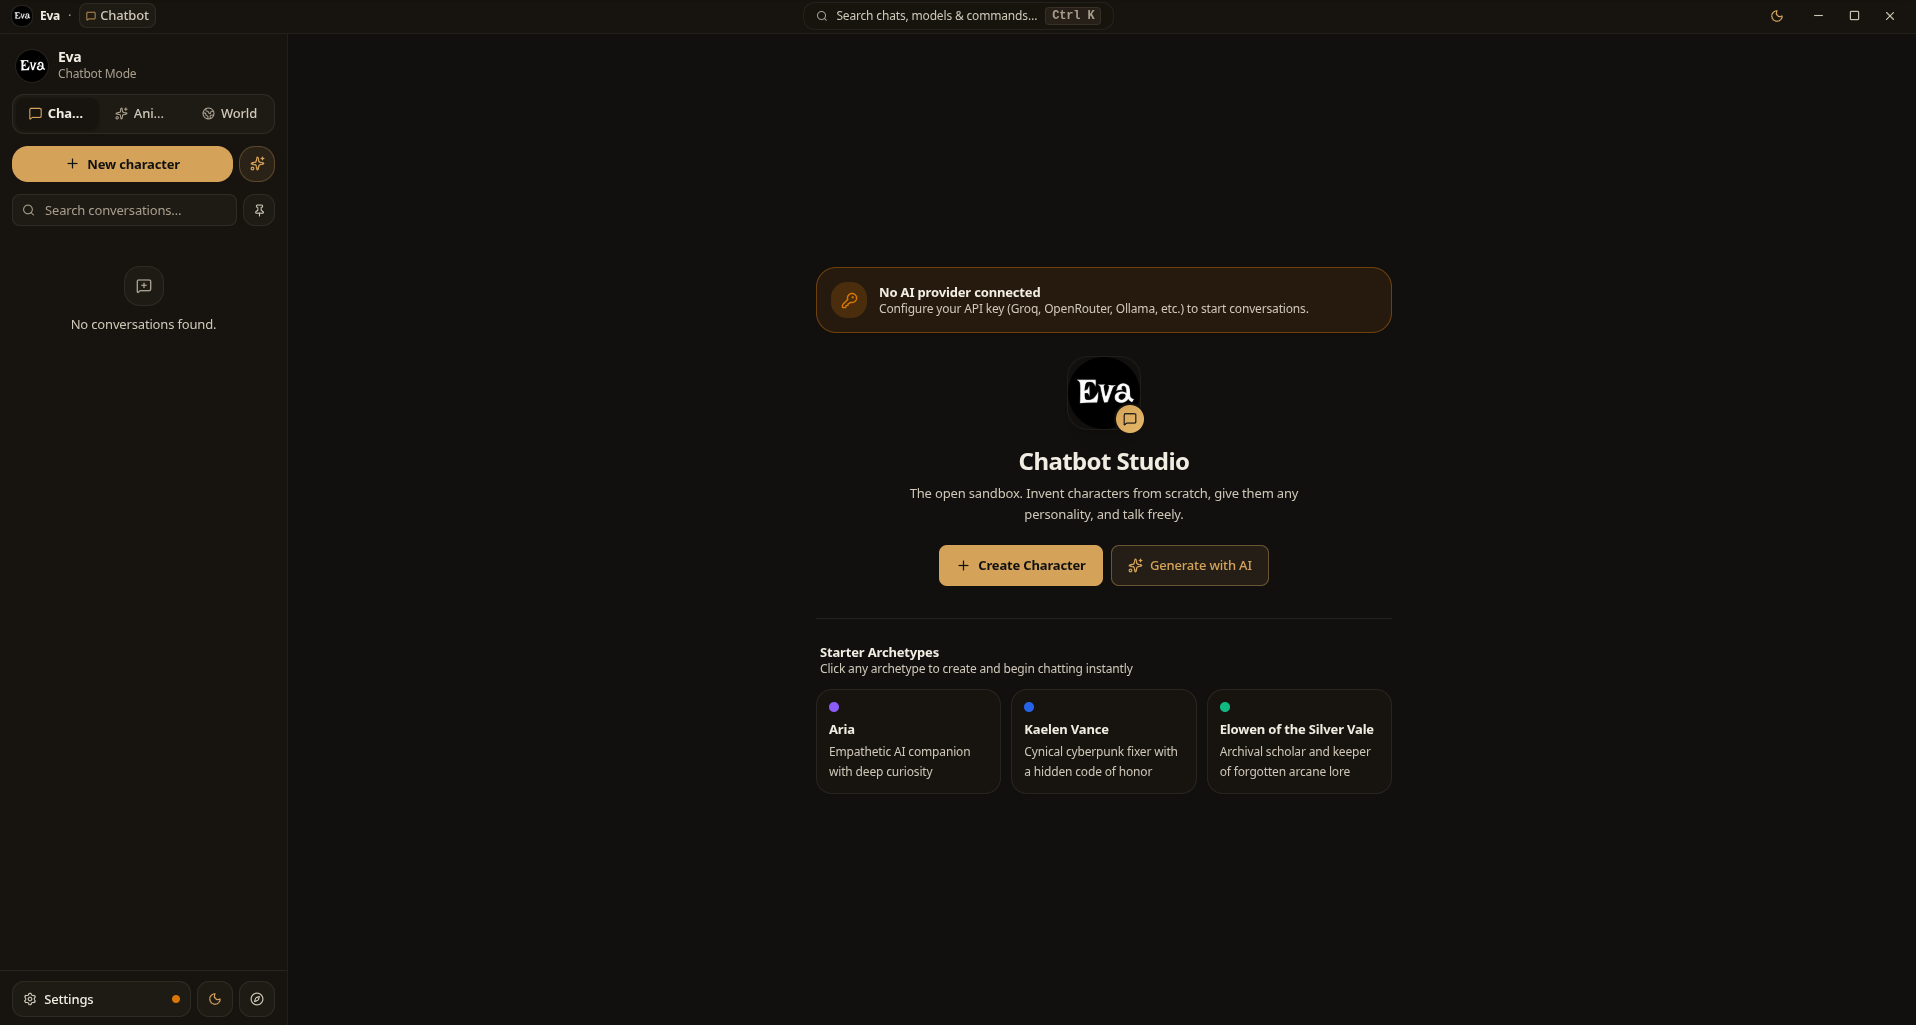
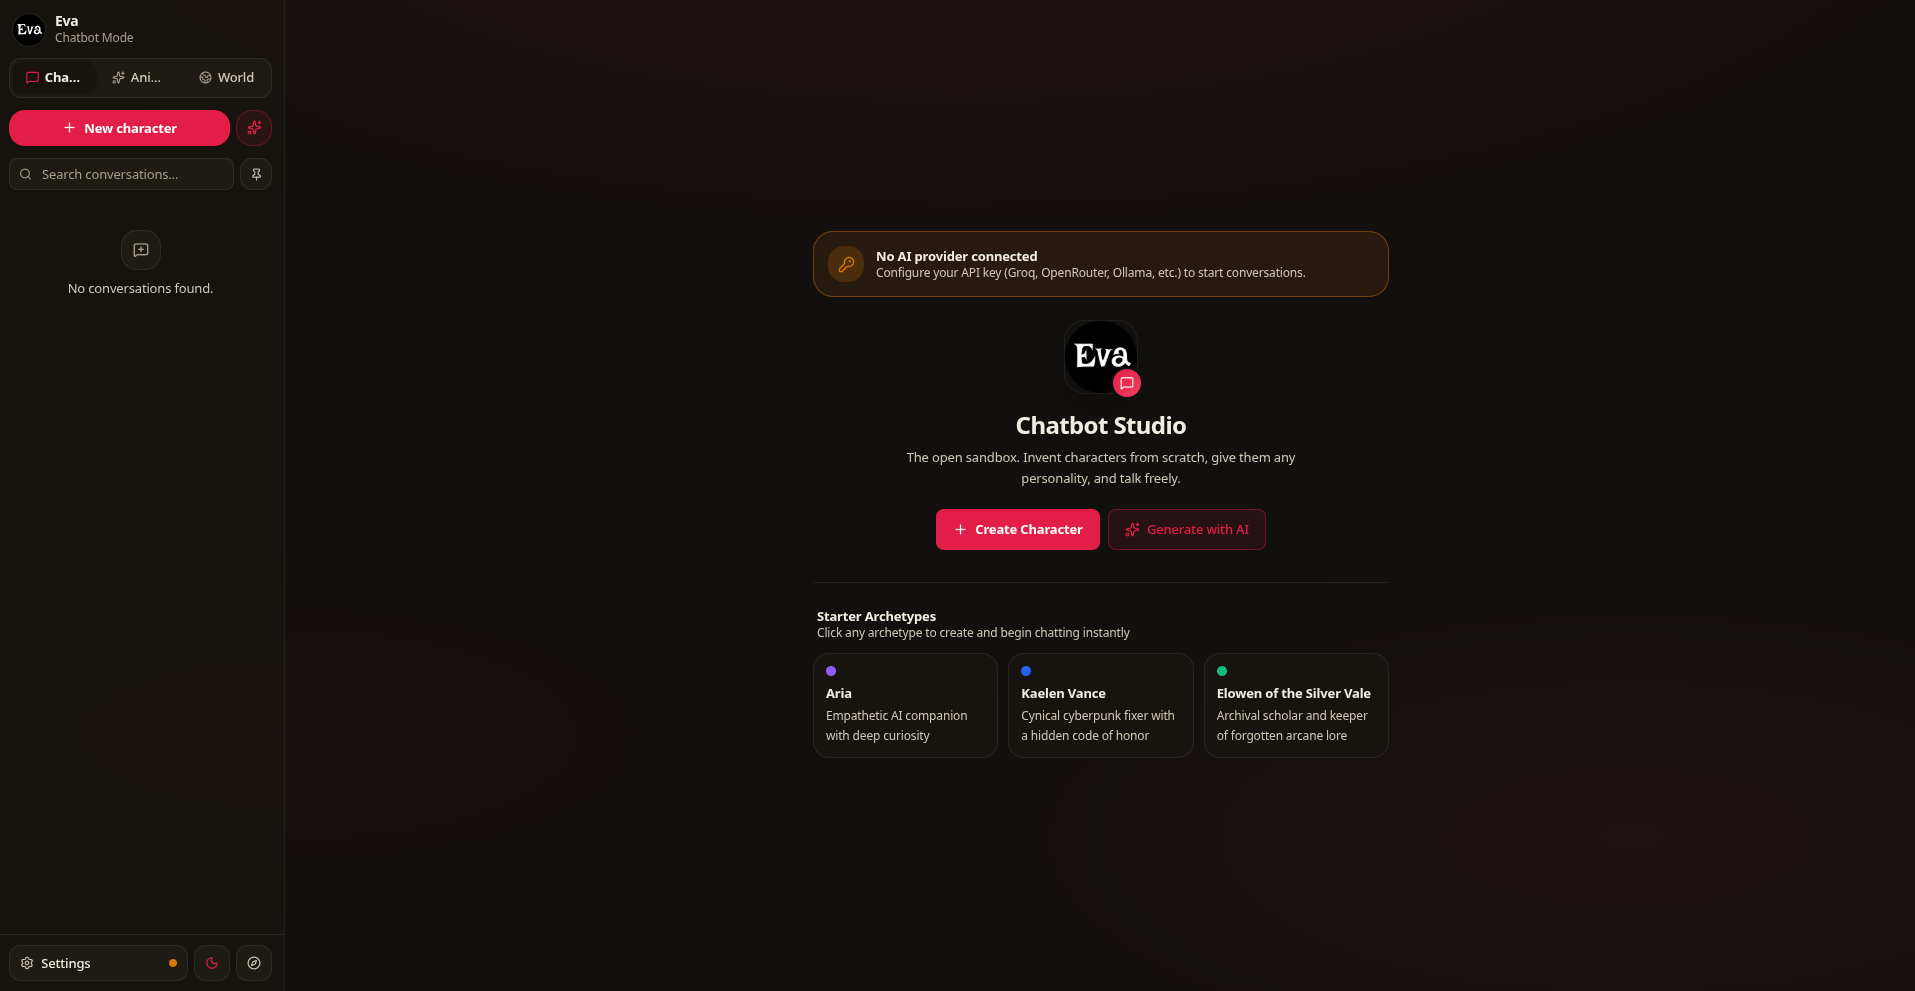
feat(site): replace simulated hero mock with authentic v2.2 app screenshot

diff --git a/docs/index.html b/docs/index.html
@@ -164,7 +164,7 @@
         </div>
       </div>
 
-      <!-- Hero Interactive Stage (Crisp Realistic CSS Mockup) -->
+      <!-- Hero Product Showcase (Authentic Eva App Screenshot) -->
       <div class="hero-stage rv rv-delay-2">
         <div class="app-window">
           <div class="window-titlebar">
@@ -173,75 +173,12 @@
               <span class="window-dot dot-yellow"></span>
               <span class="window-dot dot-green"></span>
             </div>
-            <div class="window-title">Eva — Anime Universe · Aria Silver</div>
-            <div class="window-badge">Llama 3.3 70B · Groq (820 T/s)</div>
+            <div class="window-title">Eva — Chatbot Studio</div>
+            <div class="window-badge">v2.2.0 Active</div>
           </div>
 
-          <div class="window-workspace">
-            <!-- Mock Sidebar -->
-            <div class="mock-sidebar">
-              <div class="mock-side-header">
-                <span>Active Roster</span>
-                <span>Anime</span>
-              </div>
-              <div class="mock-char-item active">
-                <div class="mock-avatar">🌸</div>
-                <div class="mock-char-meta">
-                  <strong>Aria Silver</strong>
-                  <span>Elite Archivist · Level 4</span>
-                </div>
-              </div>
-              <div class="mock-char-item">
-                <div class="mock-avatar">⚡</div>
-                <div class="mock-char-meta">
-                  <strong>Elysia Vance</strong>
-                  <span>Temporal Scout</span>
-                </div>
-              </div>
-              <div class="mock-char-item">
-                <div class="mock-avatar">⚔</div>
-                <div class="mock-char-meta">
-                  <strong>Captain Chen</strong>
-                  <span>Orbital Fleet</span>
-                </div>
-              </div>
-            </div>
-
-            <!-- Mock Chat -->
-            <div class="mock-chat">
-              <div class="mock-chat-header">
-                <div style="display:flex;align-items:center;gap:10px;">
-                  <strong style="font-size:14px;color:var(--c-fg);">Aria Silver</strong>
-                  <span style="font-size:12px;color:var(--c-muted);">Library of Eldoria</span>
-                </div>
-                <div class="mock-model-pill">
-                  <span class="status-dot"></span>
-                  <span>Streaming Active</span>
-                </div>
-              </div>
-
-              <div class="mock-messages">
-                <div class="mock-msg user">
-                  <div class="mock-bubble">
-                    Aria, what did the ancient texts reveal about the Celestial Gate alignment?
-                  </div>
-                </div>
-
-                <div class="mock-msg assistant">
-                  <div>
-                    <div class="mock-memory-tag">
-                      <svg width="12" height="12" viewBox="0 0 24 24" fill="none" stroke="currentColor" stroke-width="2"><path d="M12 2v20"/><path d="m17 5-5-3-5 3"/><path d="m17 19-5 3-5-3"/></svg>
-                      Recalled: Discussed the Codex of Stars 2 scenes ago
-                    </div>
-                    <div class="mock-bubble">
-                      <em>*Aria looks up from the illuminated manuscript, brushing a strand of silver hair from her face.*</em>
-                      <br><br>
-                      The Codex was unequivocal. The gate will only align when the three astral moons eclipse the southern meridian. According to the celestial charts, that alignment occurs in less than three days. If we intend to breach the inner sanctum, we must move before the dusk watch changes.
-                    </div>
-                  </div>
-                </div>
-              </div>
-            </div>
+          <div class="app-screenshot-wrap">
+            <img class="app-screenshot-img" src="assets/app-showcase.png" alt="Eva v2.2 Chatbot Studio Interface" width="1915" height="991" loading="eager">
           </div>
         </div>
       </div>

diff --git a/docs/styles.css b/docs/styles.css
@@ -789,159 +789,26 @@ img, svg {
   border: 1px solid var(--hair);
 }
 
-.window-workspace {
-  display: grid;
-  grid-template-columns: 260px 1fr;
-  min-height: 480px;
-}
-
-/* Mockup Sidebar */
-.mock-sidebar {
-  background: var(--c-bg-subtle);
-  border-right: 1px solid var(--hair);
-  padding: 16px;
-  display: flex;
-  flex-direction: column;
-  gap: 16px;
-}
-
-.mock-side-header {
-  display: flex;
-  align-items: center;
-  justify-content: space-between;
-  font-size: 11.5px;
-  font-weight: 600;
-  text-transform: uppercase;
-  letter-spacing: 0.05em;
-  color: var(--c-muted);
-}
-
-.mock-char-item {
-  display: flex;
-  align-items: center;
-  gap: 10px;
-  padding: 10px 12px;
-  border-radius: var(--radius-md);
-  background: transparent;
-  transition: background var(--duration-fast) var(--ease);
-  cursor: pointer;
-}
-
-.mock-char-item.active {
-  background: var(--c-surface);
-  border: 1px solid var(--hair);
-}
-
-.mock-avatar {
-  width: 36px;
-  height: 36px;
-  border-radius: 10px;
-  background: var(--c-surface-elevated);
-  display: flex;
-  align-items: center;
-  justify-content: center;
-  font-size: 18px;
-  border: 1px solid var(--hair);
-}
-
-.mock-char-meta strong {
+.app-screenshot-wrap {
+  width: 100%;
+  position: relative;
+  background: #0C0B09;
+  line-height: 0;
   display: block;
-  font-size: 13.5px;
-  color: var(--c-fg);
-  font-weight: 600;
-  line-height: 1.2;
+  overflow: hidden;
+  border-top: 1px solid var(--hair);
 }
 
-.mock-char-meta span {
-  font-size: 11.5px;
-  color: var(--c-muted);
+.app-screenshot-img {
+  width: 100%;
+  height: auto;
+  display: block;
+  object-fit: cover;
+  transition: transform var(--duration-slow) var(--ease);
 }
 
-/* Mockup Chat Area */
-.mock-chat {
-  display: flex;
-  flex-direction: column;
-  background: var(--c-surface);
-}
-
-.mock-chat-header {
-  height: 52px;
-  border-bottom: 1px solid var(--hair);
-  padding: 0 20px;
-  display: flex;
-  align-items: center;
-  justify-content: space-between;
-}
-
-.mock-model-pill {
-  font-size: 12px;
-  display: flex;
-  align-items: center;
-  gap: 6px;
-  background: var(--c-surface-elevated);
-  padding: 4px 10px;
-  border-radius: var(--radius-full);
-  border: 1px solid var(--hair);
-  color: var(--c-fg);
-}
-
-.mock-model-pill .status-dot {
-  width: 6px;
-  height: 6px;
-  border-radius: 50%;
-  background: #10B981;
-}
-
-.mock-messages {
-  flex: 1;
-  padding: 24px;
-  display: flex;
-  flex-direction: column;
-  gap: 18px;
-}
-
-.mock-msg {
-  display: flex;
-  gap: 12px;
-  max-width: 80%;
-}
-
-.mock-msg.user {
-  margin-left: auto;
-  flex-direction: row-reverse;
-}
-
-.mock-bubble {
-  padding: 12px 16px;
-  border-radius: 16px;
-  font-size: 14px;
-  line-height: 1.5;
-}
-
-.mock-msg.user .mock-bubble {
-  background: var(--c-accent);
-  color: var(--c-accent-fg);
-  border-bottom-right-radius: 4px;
-}
-
-.mock-msg.assistant .mock-bubble {
-  background: var(--c-bg-subtle);
-  color: var(--c-fg);
-  border: 1px solid var(--hair);
-  border-bottom-left-radius: 4px;
-}
-
-.mock-memory-tag {
-  display: inline-flex;
-  align-items: center;
-  gap: 6px;
-  font-size: 11px;
-  color: var(--c-accent-bright);
-  background: var(--c-accent-surface);
-  padding: 2px 8px;
-  border-radius: 6px;
-  margin-bottom: 6px;
-  font-weight: 500;
+.app-window:hover .app-screenshot-img {
+  transform: scale(1.012);
 }
 
 /* ==================================================================== *
